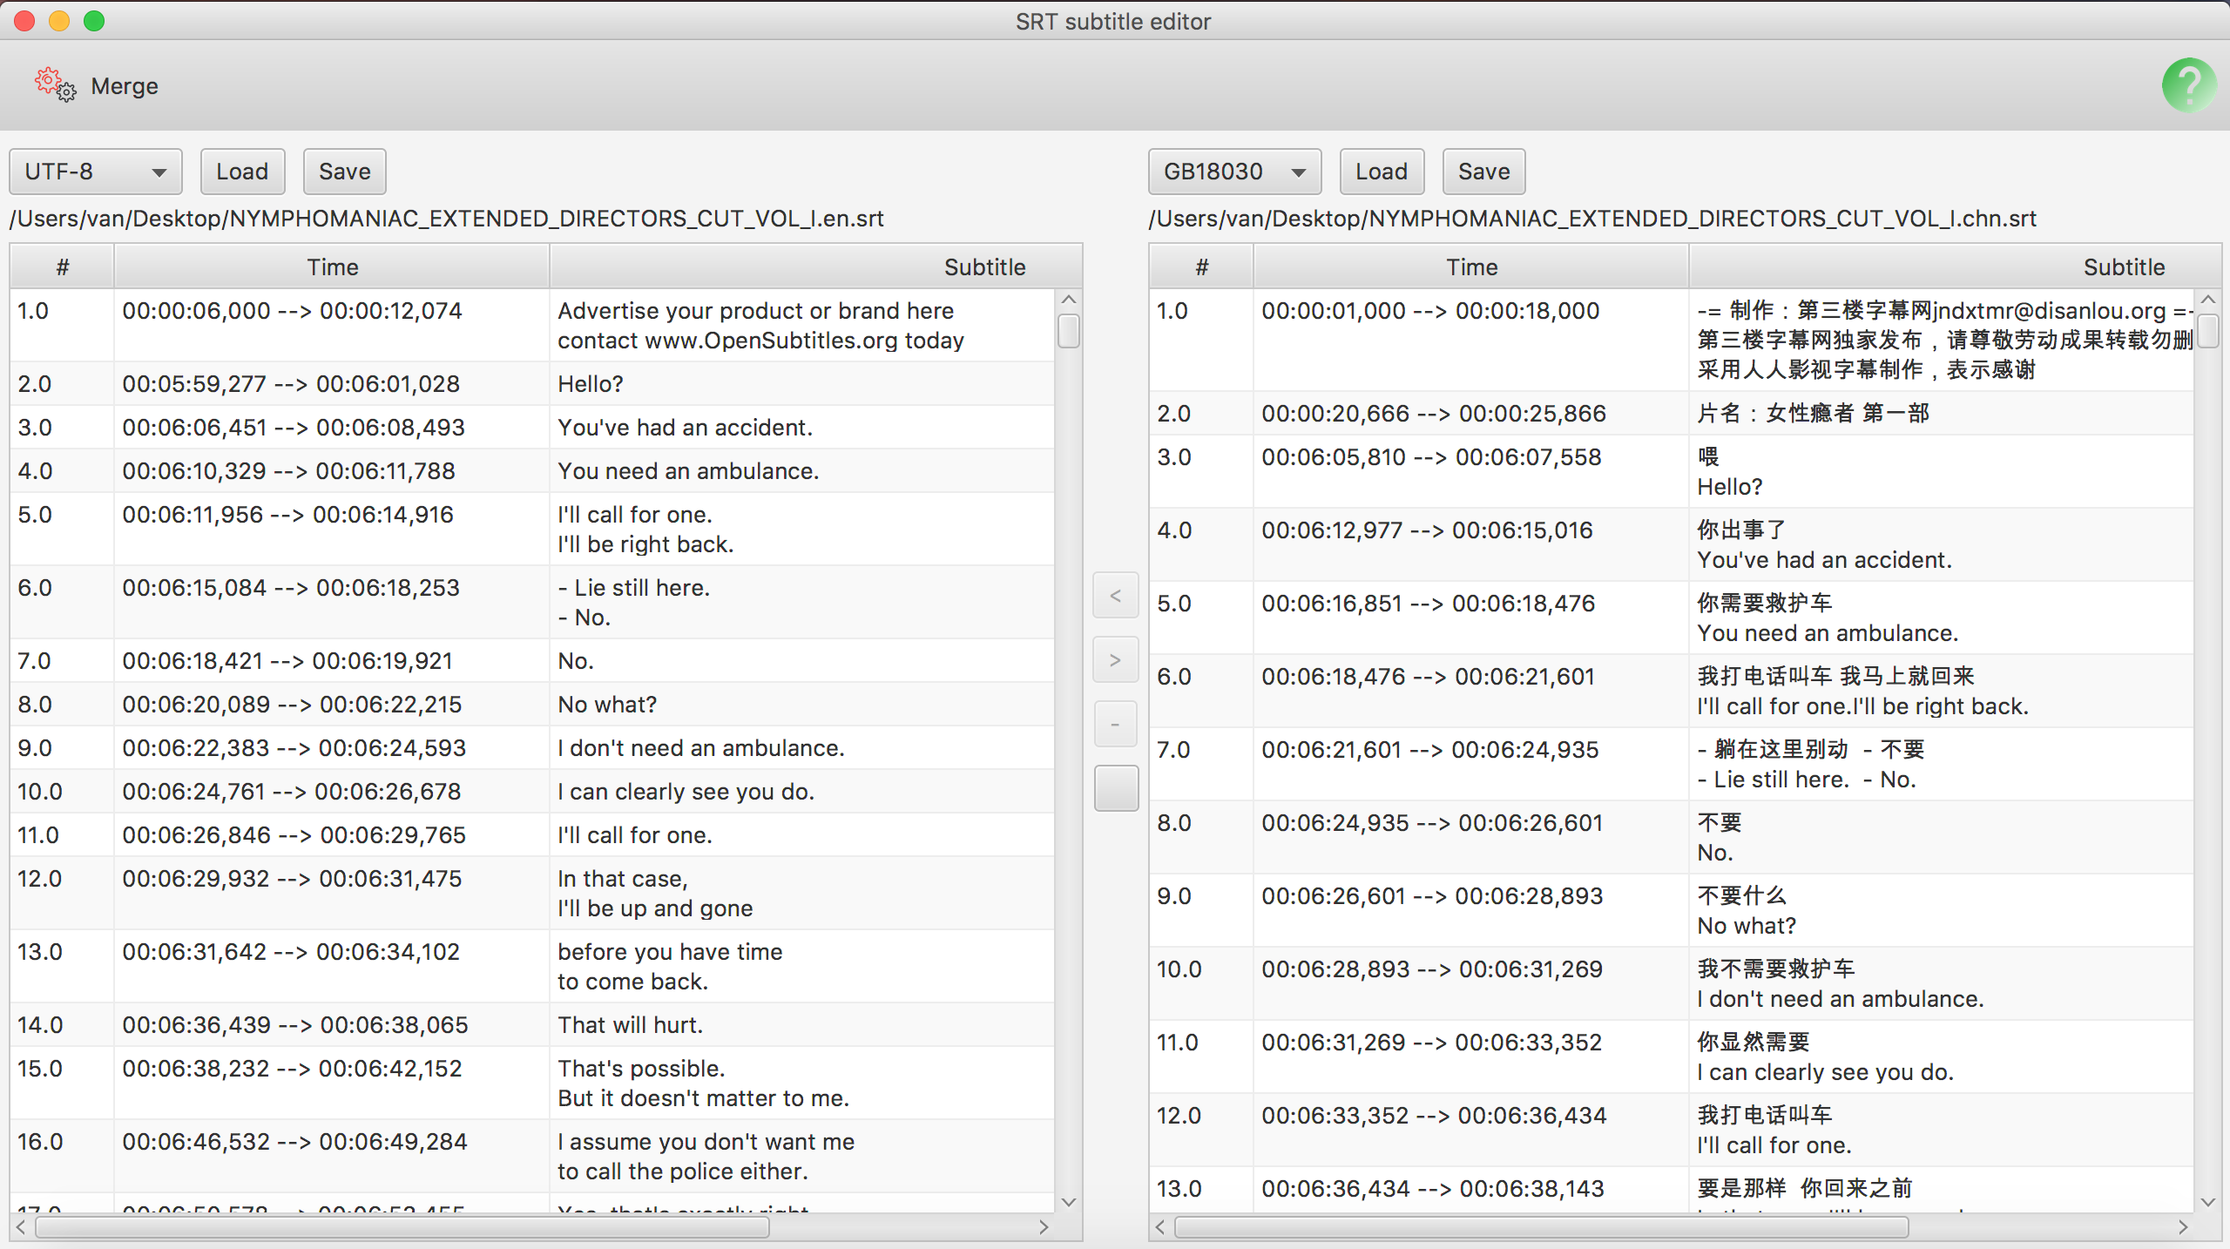
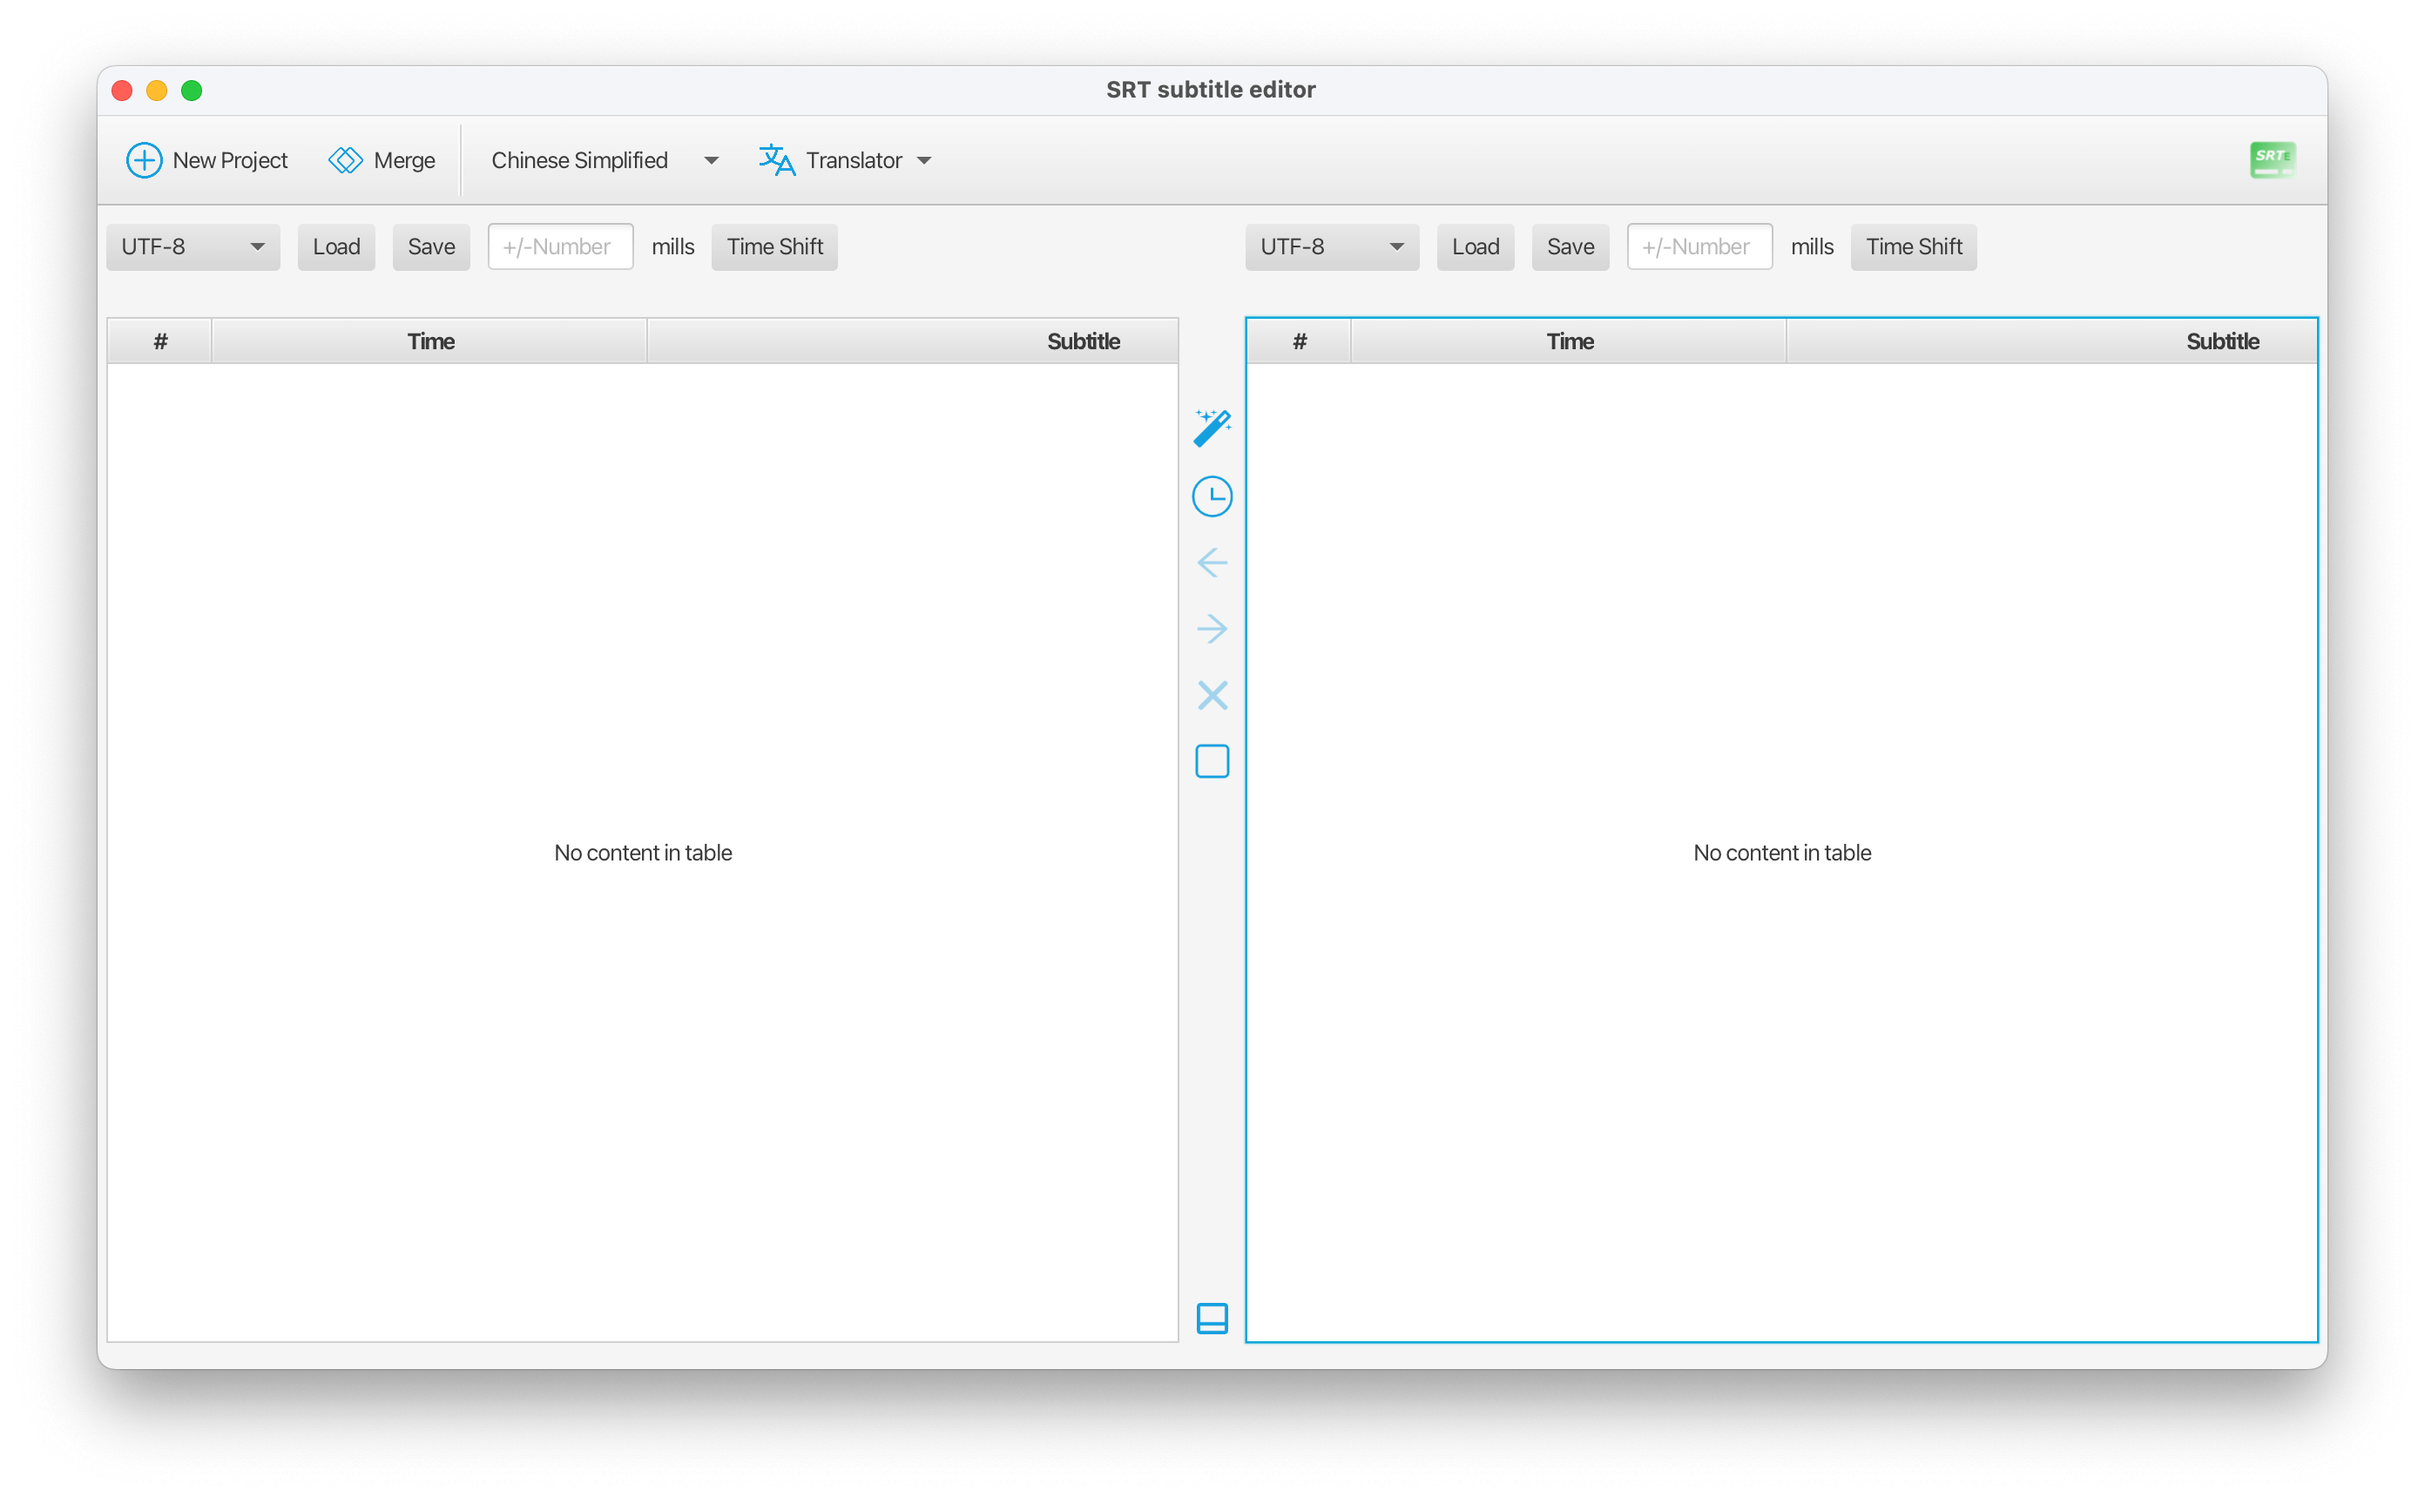
azure ai Translator sdk.

diff --git a/src/main/java/io/vanstudio/srt/MainController.java b/src/main/java/io/vanstudio/srt/MainController.java
@@ -212,7 +212,7 @@ public class MainController {
         result.ifPresent(mergeConfig -> {
 
             FileChooser fileChooser = new FileChooser();
-            fileChooser.setTitle(resources.getString("dialog.filechooder.save.srt.file"));
+            fileChooser.setTitle(resources.getString("dialog.filechooser.save.srt.file"));
             fileChooser.getExtensionFilters().addAll(new FileChooser.ExtensionFilter("SRT", "*.srt"));
             File file = fileChooser.showSaveDialog(btnMerge.getScene().getWindow());
 

diff --git a/src/main/java/io/vanstudio/srt/SrtTableController.java b/src/main/java/io/vanstudio/srt/SrtTableController.java
@@ -131,7 +131,7 @@ public class SrtTableController {
         if (srtTable.getItems().isEmpty()) return;
 
         FileChooser fileChooser = new FileChooser();
-        fileChooser.setTitle(resources.getString("dialog.filechooder.save.srt.file"));
+        fileChooser.setTitle(resources.getString("dialog.filechooser.save.srt.file"));
         if (path != null) {
             fileChooser.setInitialFileName(defaultFileName());
             fileChooser.setInitialDirectory(path.getParent().toFile());

diff --git a/docs/user_guide.md b/docs/user_guide.md
@@ -11,6 +11,8 @@ SrtEditor is a sample subtitle(srt) file editor, merger. With the SrtEditor, you
 - [x] save the changes 
 - [x] merge two srt into new one by select your selection content, e.g. 
 select time from left, subtitle from right or combine both subtitles to make two language srt file
+- [x] auto normalize and clean empty line.
+- [x] auto calculate time base on first(or selected) line.
 
 But the following you can not do 
 
@@ -30,16 +32,25 @@ ones.
 So I create the SrtEditor tool to do the job for me.
 
 ### Main screen
-![Main Screen](images/main_screen_0.png)
+![Main Screen](images/main_screen.png)
 
 ### Load file
 SrtEditor try to load the file by guess it charset. Sometime the guess will fail, 
 it will open the file as iso-8859-1, or even worse fail open file. If this happened, 
 just choose the correct charset, and the file will open correctly.
 
+### Auto normalize
+Auto normalize and clean the empty line in each side. Just click `Auto normlize` button.
+
+### Adjust time
+When time not match in both side. you can click `calculate shift time` button to auto calculate times: 
+- base on first line's time on both side
+- base on select line's time on either side
+After calculation, you only need click ONE side's `Time Shift` button. This will adjust selected side's all times.
+
 ### Edit subtitle, time
 The subtitle, time are editable, but the # (serial number) is not allow to edit. 
-The serial number here is used for order purpose, the table will ordered only 
+The serial number here is used for order purpose, the table will order only 
 by the serial number ascending, not by the time. Just click a cell and edit, no any 
 validation is done here, so be careful, don't break the timeline.
 
@@ -77,8 +88,8 @@ Second, you need choose merge strategy.
 For my case, I choose the time from left side (English), subtitle from right side (duo lang, English and Chinese)
 the charset I choose other, GB18030. Next step, choose file name to save.
 
-Other use case is create duo lang subtitle, suppose you have two subtitle file with 
-different language, and match the size, you can easy create a duo lang subtitle by choose combine subtitle strategy.
+Other use case is create duo lang subtitle, suppose you have two subtitles file with 
+different language, and match the size, you can easily create a duo lang subtitle by choose combine subtitle strategy.
 
 ### Translate
 
@@ -90,3 +101,6 @@ set the following environment variable:
 export BING_TRANSLATOR_KEY=<your key string>
 export BING_TRANSLATOR_REGION=<your region>
 ```
+
+To view api error log, you can open log window at the bottom. Some time the api will block by server, just wait for while
+it will retry. you don't need to do anything.
